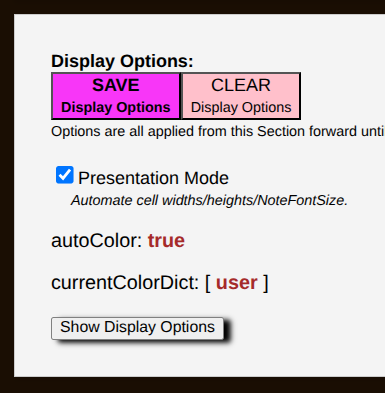
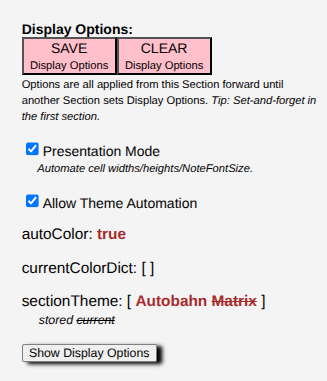
Added 'Allow Theme Automation' checkbox and display of values to View, and its stored 'sectionTheme' variable in Song, schema, and DisplayOptions. Added collapsing of menus and hiding of command-line when a file or URL is opened, including tutorial links.  This especially hides the Song Library when

diff --git a/infinite-neck.js b/infinite-neck.js
@@ -683,10 +683,21 @@ if (typeof window !== 'undefined' && typeof $ !== 'undefined') {
 		$('#btnControlsToDisplayOptions_View').toggleClass('riskyButtonActionRequired', !!isRequired);
 	}
 
-	function updateDisplayOptionsReadonlyValues(options = null){
+	export function updateDisplayOptionsReadonlyValues(options = null){
 		const values = options || controlsToDisplayOptions();
 		$('#viewDisplayOptionAutoColorValue').text(String(!!values.autoColor));
 		$('#viewDisplayOptionCurrentColorDictValue').text(values.currentColorDict || '');
+		
+		let displayOptionsTheme = values.sectionTheme||'';
+		let storedDisplayOptions = getSong().getCurrentSection().displayOptions;
+		let storedTheme = (storedDisplayOptions?.sectionTheme)||'';
+		let showTheme;
+		if (storedTheme === displayOptionsTheme){
+			showTheme = `${storedTheme}`;
+		} else {
+			showTheme = `${storedTheme} <s>${displayOptionsTheme}</s>`;
+		}
+		$('#viewDisplayOptionCurrentSectionTheme').html(showTheme || '');
 	}
 
 	function captureDisplayOptionsDirtyBaseline(){
@@ -1768,6 +1779,8 @@ if (typeof window !== 'undefined' && typeof $ !== 'undefined') {
 			EventBus.trigger('UpdateAllWiringSelects');
 		}
 
+		
+
 		replay();
 		sectionChanged();
 	}
@@ -1785,6 +1798,7 @@ if (typeof window !== 'undefined' && typeof $ !== 'undefined') {
 
 		$("#txtFilename").val(getSong().songName).trigger('change');
 		$("#cbPresentationMode").prop("checked", !!getSong().presentationMode).trigger('change');
+		$("#cbAllowThemeAutomation").prop("checked", !!getSong().allowThemeAutomation).trigger('change');
 
 		setBPM(getSong().defaultBPM);
 
@@ -1815,6 +1829,10 @@ if (typeof window !== 'undefined' && typeof $ !== 'undefined') {
 		if (tuningsShowing == 0){
 			// Preserve loaded no-visible state; UI already provides warning and recovery flows.
 		}
+
+		leaveFullscreen();
+		hideCmdLine();
+		hideAllMenuDivs();
 
 		replay();
 		sectionChanged();
@@ -1885,6 +1903,9 @@ if (typeof window !== 'undefined' && typeof $ !== 'undefined') {
 			return false;
 		}
 		loadSong(songPath);
+		leaveFullscreen();
+		hideCmdLine();
+		hideAllMenuDivs();
 		return true;
 	}
 
@@ -2627,6 +2648,13 @@ if (typeof window !== 'undefined' && typeof $ !== 'undefined') {
 		const naturalFontScaling = options.naturalFontScaling;
 		const functionSymbolsValue = options.dropDownFunctionSymbols?.value;
 
+		if (getSong().allowThemeAutomation){
+			let sectionTheme = options.sectionTheme;
+			if (sectionTheme){
+				$('#selThemes').val(sectionTheme).trigger('change');
+			}
+
+		}
 		if (getSong().presentationMode){
 			if (sizesObj.width != null){
 				$("#dropDownCellWidth").val(String(sizesObj.width));
@@ -2801,8 +2829,13 @@ if (typeof window !== 'undefined' && typeof $ !== 'undefined') {
 		options.tinyNoteWidth = $("#selTinyNoteWidth").val();
 		options.tinyNoteHPosition = $("#selTinyNoteHPosition").val();
 		options.tinyNoteRadius = $("#selTinyNoteRadius").val();
-		//Ignore #cbPresentationMode because it really is Song-scope and not per Section.
 		
+		//This is for storing theme, but only if allowThemeAutomation is in effect:
+		if (getSong().allowThemeAutomation){
+			options.sectionTheme = $('#selThemes').val();
+		}
+
+		//Ignore #cbPresentationMode because it really is Song-scope and not per Section.
 		return options;
 	}
 
@@ -3228,6 +3261,10 @@ if (typeof window !== 'undefined' && typeof $ !== 'undefined') {
 		bindEvent('change', '#cbPresentationMode', function(){
 			getSong().presentationMode = this.checked;
 		});
+		bindEvent('change', '#cbAllowThemeAutomation', function(){
+			getSong().allowThemeAutomation = this.checked;
+			updateDisplayOptionsReadonlyValues();
+		});
 
 		bindEvent('click', '#btnMessagesTab', function() {
 			showMessagesTab('Messages');
@@ -3555,7 +3592,7 @@ if (typeof window !== 'undefined' && typeof $ !== 'undefined') {
 		bindEvent('click', '#btnDeleteDisplayOptions_View', function() {
 			handleBtnDeleteDisplayOptions();
 	    });
-		bindDisplayOptionsDirtyEvent('change input', '#divViewControls input:not(#cbPresentationMode), #divViewControls select, #divViewControls textarea');
+		bindDisplayOptionsDirtyEvent('change input', '#divViewControls input:not(#cbPresentationMode):not(#cbAllowThemeAutomation), #divViewControls select, #divViewControls textarea');
 		bindDisplayOptionsDirtyEvent('click', '#btnFunctionSymbolsReset');
 		bindDelegatedEvent('change', '#cbAutomaticColor', function() {
 			refreshDisplayOptionsSaveActionRequired();

diff --git a/help.html b/help.html
@@ -2853,16 +2853,30 @@ This is the <b><i>Destination</i></b> Section number of Move, Add, <a href='#glo
 
  </p>
 
- <p>Note that two of the options in <span class="menuExampleLine">/vdd</span> aren't on the View page:
+ <p>Note that three of the options in <span class="menuExampleLine">/vdd</span> aren't on the View page:
 <ul>
     <li><b>autoColor</b> - <span class="GUIReferenceInline">palette &gt; AutoColor</span></li>
     <li><b>currentColorDict</b> - <span class="GUIReferenceInline">palette &gt; Stylesheets</span></li>
+    <li><b>sectionTheme</b> - <span class="GUIReferenceInline">Themes Dropdown</span></li>
     <li>
         These are shown below the Save/Clear buttons so you can monitor them from the View page: 
         <br><img style="border: 20px solid green; width: 260px;" src="img/help/context/DisplayOptions-from-other-pages.png" width="200">
     </li>
 </ul>
 </p>
+
+<p>The <i>sectionTheme</i> shows up when <span class="GUIReferenceInline">Allow Theme Automation</span> is checked, and will show <s>strikethrough</s> text
+when the currently selected Theme for the Section does not match the stored value in DisplayOptions.  To store it, make sure Allow Theme Automation is checked,
+then click <span class="GUIReferenceInline">SAVE Display Options</span>.
+</p>
+<p><i>sectionTheme</i> is a little different, in that you are not prompted to <span class="GUIReferenceInline">SAVE Display Options</span> simply because you changed a Theme
+while <span class="GUIReferenceInline">Allow Theme Automation</span> is checked.  Nonetheless, you save the Theme in the Current Section
+by clicking SAVE anyway.  Your choice is shown in whether the Theme appears in normal text (stored/saved), or in <s>strikethrough</s> (active but not stored/saved).</p>
+<p>Normally, you would not automate Theme selection, as it is considered a User choice while playing back a song.  However, for Presentations you may wish to automate.  The Tutorials especially 
+    use automation, since the Themes dropdown is not available to tutorials (except by links to macros), and the tutorials 
+    generally want to make specific points using specific examples they can describe in the tutorial prompt text.
+</p>
+
 
  <p>There's a bit more info in the <a href="#glossaryDisplayOptions">Glossary::Display Options</a> entry</p>
 

diff --git a/index.html b/index.html
@@ -953,8 +953,13 @@
                         Mode</label>
                     <br>&nbsp;&nbsp;&nbsp;&nbsp;<i><small>Automate cell widths/heights/NoteFontSize.</i></small>
                 </p>
+                <br>
+                <p><label for="cbAllowThemeAutomation"><input type="checkbox" id="cbAllowThemeAutomation" value="1">Allow Theme Automation</label>
+                </p>
                 <p class="viewDisplayOptionsReadOnly">autoColor: <span id="viewDisplayOptionAutoColorValue">false</span></p>
-                <p class="viewDisplayOptionsReadOnly">currentColorDict: [ <span id="viewDisplayOptionCurrentColorDictValue"></span> ]
+                <p class="viewDisplayOptionsReadOnly">currentColorDict: [ <span id="viewDisplayOptionCurrentColorDictValue"></span> ]</p>
+                <p class="viewDisplayOptionsReadOnly">sectionTheme: [ <span id="viewDisplayOptionCurrentSectionTheme"></span> ]
+                    <br>&nbsp;&nbsp;&nbsp;&nbsp;<i><small>stored <s>current</s></i></small>
                 </p>
                 <p class="viewDisplayOptionsReadOnly"><button id="btnShowDisplayOptions" type="button" data-action="showDisplayOptions">Show Display Options</button>
                     </p>

diff --git a/bin/song-file-schema.js b/bin/song-file-schema.js
@@ -327,6 +327,7 @@ export const songFileV2Schema = {
         chartOptions: chartOptionsSchema,
         namedNoteOpacity: stringOrNumberSchema,
         presentationMode: { type: 'boolean' },
+        allowThemeAutomation: { type: 'boolean' },
         pluginFiringOrder: {
             type: 'array',
             items: { type: 'string', minLength: 1 }

diff --git a/templates/themes.builder.js b/templates/themes.builder.js
@@ -35,6 +35,7 @@ export class ThemesBuilder {
         ThemeFunctions.themeToControls(selectedTheme);
         ThemeFunctions.clearThemeDiffResults();
         InfiniteNeck.refreshShowAllNoteNames();
+        InfiniteNeck.updateDisplayOptionsReadonlyValues();
         $(this).blur();  // Remove focus so keyboard doesn't change selection
     }
     

diff --git a/SongPersistence.js b/SongPersistence.js
@@ -187,6 +187,7 @@ const songDefaults = {
     namedNoteOpacity: "1.00",
     openInfo: "none",
     presentationMode: false,
+    allowThemeAutomation: false,
     pluginFiringOrder: [...DEFAULT_PLUGIN_FIRING_ORDER],
     chartOptions: {
         modes: true,

diff --git a/infinite-neck.css b/infinite-neck.css
@@ -477,6 +477,10 @@ table.viewControls th {
     font-weight: 600;
     color: brown;
 }
+#viewDisplayOptionCurrentSectionTheme {
+    font-weight: 600;
+    color: brown;
+}
 
 .slider {
   -webkit-appearance: none;
